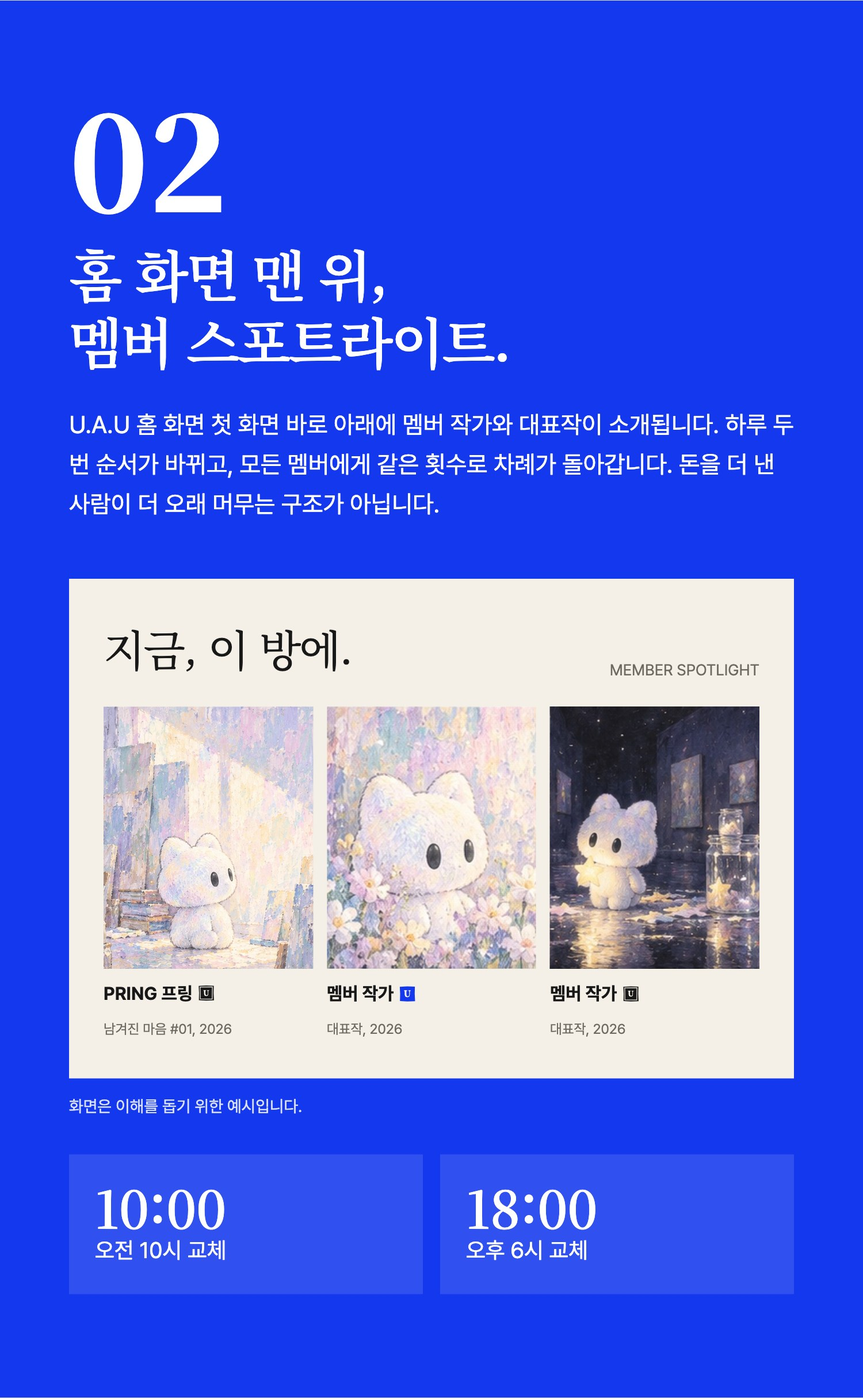
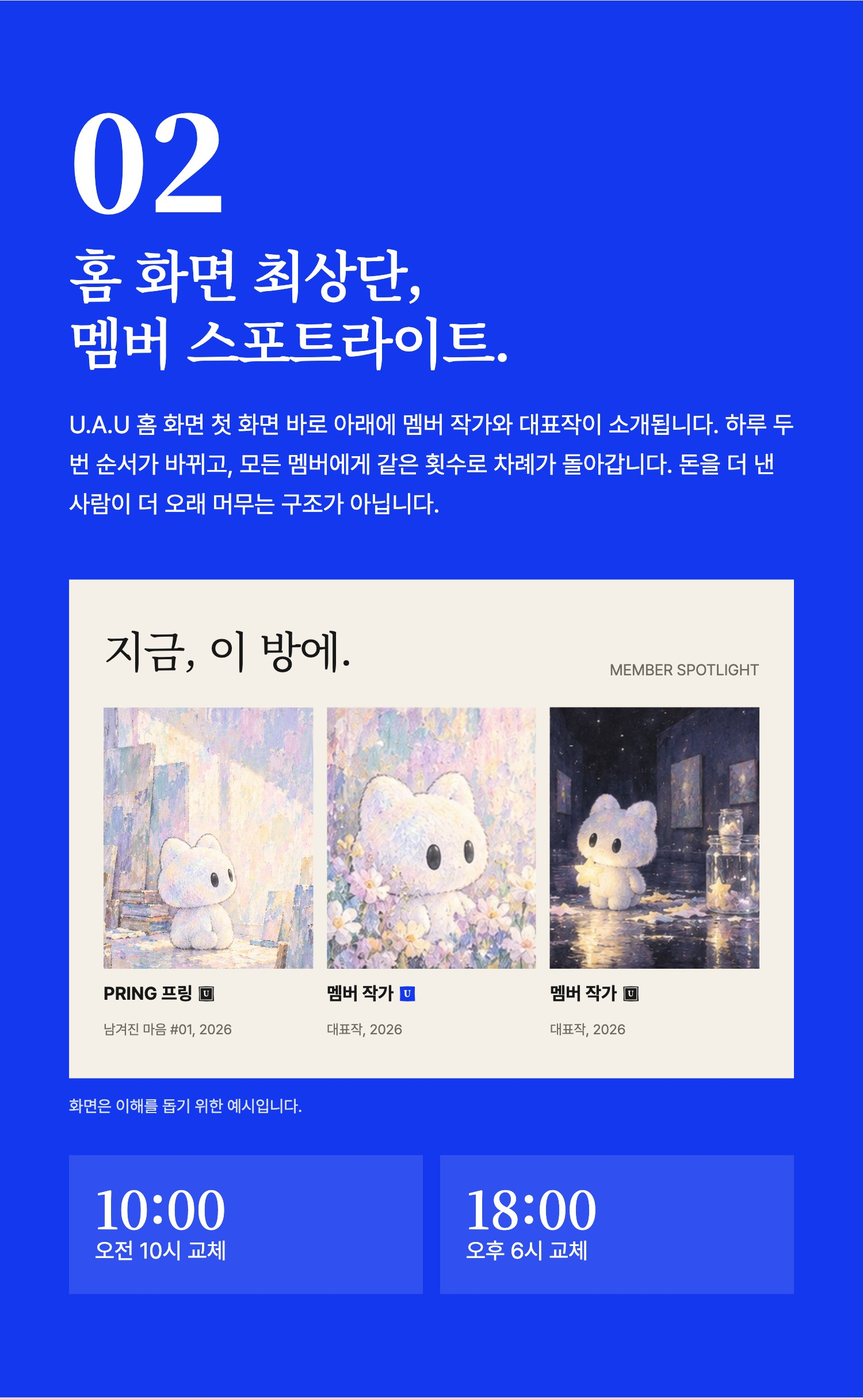
Call the membership mark a crest and promise activation within 12 hours
Rework the Imweb detail copy, fix its typos and line breaks, keep upcoming
tools for members only, and re-render the covers and detail images.

diff --git a/docs/operations/imweb/detail.html b/docs/operations/imweb/detail.html
@@ -171,33 +171,33 @@ const month = isFounding ? "2,900" : "4,900";
 
 const sections = [
   // 1 opening
-  `<section class="slice open"><img src="../../../public/assets/uau-hero.webp" alt=""><div class="brand">U.A.U · UNFRAME Artist Unit</div><div class="scrim"></div>${seal()}<div class="copy">
+  `<section class="slice open"><img src="../../../public/assets/uau-hero.webp" alt=""><div class="brand">U.A.U - UNFRAME Artist Unit</div><div class="scrim"></div>${seal()}<div class="copy">
     <span class="tag">${isFounding ? "선착순 100명 · 창립 멤버 1년권" : "U.A.U 멤버 1년권"}</span>
-    <h1>${isFounding ? "단 100명에게만,<br>먹색 인장." : "작가의 이름 옆에,<br>작은 인장 하나."}</h1>
-    <p>${isFounding ? "U.A.U가 시작하는 해를 함께할 작가 100명을 찾습니다." : "커피 한 잔 값으로, 당신의 작업이 더 자주 보이게."}</p></div></section>`,
+    <h1>${isFounding ? "단 100명에게만,<br>먹색 크레스트." : "작가의 이름 옆에,<br>작은 크레스트 하나."}</h1>
+    <p>${isFounding ? "U.A.U가 시작하는 해를 함께할 작가 100명을 찾습니다." : "커피 한 잔 값으로, 당신의 작업이 더 명확하고 자주 보이게."}</p></div></section>`,
   // 2 pains
-  `<section class="slice deep"><h2>좋은 작업은 많은데,<br><em>보일 자리</em>는 적습니다.</h2>
-    <p class="lead">작가가 자기 작업을 알리려면 생각보다 많은 비용이 듭니다.</p>
+  `<section class="slice deep"><h2>작업에 몰두하기도 벅찬데,<br><em>알리는 비용</em>은 무겁습니다.</h2>
+    <p class="lead">아티스트가 자신의 온전한 아카이브를 알리려면 생각보다 많은 비효율과 비용이 듭니다.</p>
     <div class="pains">
       <div class="pain"><strong>월 1~3만원</strong><p>해외 포트폴리오 서비스의 유료 플랜<small>Behance Pro, ArtStation Pro, Format 등 (2026년 기준, 연간 결제 시)</small></p></div>
-      <div class="pain"><strong>40%</strong><p>온라인 판매 플랫폼이 가져가는 작품 판매 수수료<small>Saatchi Art, Artfinder 등</small></p></div>
-      <div class="pain"><strong>?</strong><p>언제 보여줄지 알 수 없는 SNS 알고리즘<small>올린 날 묻히면 그걸로 끝</small></p></div>
+      <div class="pain"><strong>30~40%</strong><p>온라인 판매 플랫폼이 가져가는 높은 중개 수수료<small>Saatchi Art, Artfinder 등 독립 판매 채널</small></p></div>
+      <div class="pain"><strong>? ? ?</strong><p>언제 보여줄지 알 수 없는 SNS 알고리즘<small>올린 날 묻히면 그걸로 끝</small></p></div>
     </div></section>`,
   // 3 what is UAU
-  `<section class="slice"><h2>U.A.U는 작가의 기록과 연결을<br>위한 <em>작가 플랫폼</em>입니다.</h2>
-    <p class="lead">UNFRAME이 만든 U.A.U에서 작가는 자기 페이지를 갖고, 작품·CV·전시 기록을 쌓고, 문의를 받습니다. <b>여기까지는 모두 무료입니다.</b> 인증 작가라면 누구나 공정한 순서로 목록에 노출되고, 그 순서는 매일 오전 10시와 오후 6시에 다시 섞입니다.</p>
-    <p class="lead">멤버십은 그 위에 하나를 더합니다. <b>더 자주 보이는 것.</b></p></section>`,
+  `<section class="slice"><h2>U.A.U는 아티스트의 온전한 '기록과 연결'을 위한<br><em>지속 가능한 플랫폼</em>입니다.</h2>
+    <p class="lead">UNFRAME이 만든 U.A.U에서 아티스트는 자신만의 웹페이지를 갖고, 작품·CV·전시 기록을 아카이빙하며, 컬렉터 또는 기획자의 문의를 직접 받습니다. <b>이 모든 기본 기능은 인증 아티스트라면 평생 무료입니다.</b><br>누구나 공정한 순서로 목록에 노출되고, 그 순서는 매일 오전 10시와 오후 6시에 다시 섞입니다.</p>
+    <p class="lead">멤버십은 상업적인 입찰 광고가 아닙니다. <b>창작을 지키는 아티스트에게 더 명확한 시선의 기회를 더하는 신뢰의 연결입니다.</b></p></section>`,
   // 4 seal reveal
-  `<section class="slice dark reveal"><span class="tag">MEMBERSHIP SEAL</span><h2 style="margin-top:30px">이름 옆에 찍히는<br>U.A.U ${name} 인장</h2>${seal()}
-    <div class="anatomy"><div><b>U · A</b><p>윗줄은 Unframe Artist의 머리글자.</p></div><div><b>□ · U</b><p>아랫줄은 액자 틀과 Unit. 틀을 벗어난 작가들의 단위.</p></div><div><b>${colour}</b><p>${isFounding ? "먹색은 창립 멤버에게만. 테두리가 한 겹 더 있습니다." : "블루는 U.A.U 멤버의 색입니다."}</p></div></div></section>`,
+  `<section class="slice dark reveal"><span class="tag">MEMBERSHIP CREST</span><h2 style="margin-top:30px">이름 옆에 새겨지는<br>U.A.U ${name} 크레스트</h2>${seal()}
+    <div class="anatomy"><div><b>U · A</b><p>상단은 Unframe Artist의 머리글자. 기존 틀을 벗어난 동시대 아티스트</p></div><div><b>□ · U</b><p>하단은 액자 틀과 Unit. 틀을 확장하는 아티스트들의 독립적 연대 단위.</p></div><div><b>${colour}</b><p>${isFounding ? "먹색은 창립 멤버에게만. 테두리가 한 겹 더 있습니다." : "딥블루는 U.A.U 공식 멤버의 시그니처 컬러입니다."}</p></div></div></section>`,
   // 5 benefit 1
-  `<section class="slice soft"><div class="num">01</div><h2 style="margin-top:36px">작가 페이지와 목록,<br>이름 옆에 <em>인장</em>이 붙습니다.</h2>
-    <p class="lead">작가 페이지 제목에는 큰 인장이, 작가 목록과 '새로 연결된 작가'에는 작은 인장이 붙습니다. 컬렉터와 큐레이터는 이 작가가 U.A.U와 함께하는 멤버라는 걸 한눈에 압니다.</p>
+  `<section class="slice soft"><div class="num">01</div><h2 style="margin-top:36px">아티스트 페이지와 목록,<br>이름 옆에 <em>크레스트</em>가 붙습니다.</h2>
+    <p class="lead">아티스트 페이지 상단에는 볼드한 크레스트가, 아카이브 목록과 추천 탭에는 컴팩트 크레스트가 표시됩니다. 컬렉터와 큐레이터는 이 작가가 U.A.U와 긴밀히 연대하는 멤버임을 직관적으로 확인합니다.</p>
     <div class="mock"><div class="mock-bar"><span>U.A.U / artist</span><span>작품 · CV · 문의</span></div><div class="mock-head"><div><h3>PRING 프링${seal()}</h3><p>Mixed media · Seoul</p><p style="color:var(--ink);margin-top:26px">보이지 않는 마음을 조용히 주워 담는<br>작은 친구예요.</p></div><img class="art" src="${tpl}editorial.jpg" style="object-view-box: inset(671px 274px 992px 351px)" alt=""></div></div>
-    <div class="mock-list"><div><span>PRING 프링${seal(undefined, "letter")}</span><small class="muted">Mixed media · Seoul</small></div><div><span>다른 작가</span><small class="muted">Painting · Busan</small></div></div>
+    <div class="mock-list"><div><span>PRING 프링${seal(undefined, "letter")}</span><small class="muted">Mixed media · Seoul</small></div><div><span>다른 아티스트</span><small class="muted">Painting · Busan</small></div></div>
     <p class="caption">화면은 이해를 돕기 위한 예시입니다.</p></section>`,
   // 6 benefit 2
-  `<section class="slice blue"><div class="num" style="color:#fff">02</div><h2 style="margin-top:36px">홈 화면 맨 위,<br>멤버 스포트라이트.</h2>
+  `<section class="slice blue"><div class="num" style="color:#fff">02</div><h2 style="margin-top:36px">홈 화면 최상단,<br>멤버 스포트라이트.</h2>
     <p class="lead">U.A.U 홈 화면 첫 화면 바로 아래에 멤버 작가와 대표작이 소개됩니다. 하루 두 번 순서가 바뀌고, 모든 멤버에게 같은 횟수로 차례가 돌아갑니다. 돈을 더 낸 사람이 더 오래 머무는 구조가 아닙니다.</p>
     <div class="spot"><div class="spot-head"><h3>지금, 이 방에.</h3><small>MEMBER SPOTLIGHT</small></div><div class="spot-grid">
       <div><img class="art" src="${tpl}editorial.jpg" style="object-view-box: inset(56px 31px 1335px 263px)" alt=""><b>PRING 프링${seal(undefined, "letter")}</b><small>남겨진 마음 #01, 2026</small></div>
@@ -206,55 +206,55 @@ const sections = [
     </div></div><p class="caption" style="color:#d9e0ff">화면은 이해를 돕기 위한 예시입니다.</p>
     <div class="clock"><div><strong>10:00</strong>오전 10시 교체</div><div><strong>18:00</strong>오후 6시 교체</div></div></section>`,
   // 7 coming
-  `<section class="slice deep"><div class="num">03</div><h2 style="margin-top:36px">앞으로 열리는 도구도,<br><em>추가 비용 없이.</em></h2>
-    <p class="lead">지금 만들고 있는 기능입니다. 열리는 대로 멤버에게 바로 켜집니다. 아직 없는 기능을 있는 것처럼 팔지 않기 위해, 준비 중이라고 분명히 적습니다.</p>
+  `<section class="slice deep"><div class="num">03</div><h2 style="margin-top:36px">새롭게 열리는 도구도,<br><em>추가 비용 없이 우선 적용.</em></h2>
+    <p class="lead">현재 순차적으로 구축 중인 아티스트 전용 툴셋입니다. 배포되는 즉시 멤버에게 추가 과금 없이 활성화됩니다. 아직 서비스되지 않는 기능을 과장하지 않기 위해, 준비 중임을 투명하게 밝힙니다.</p>
     <div class="coming">
-      <div><div><b>내 페이지 통계</b><p>조회수 · 문의 · 저장 수를 한 화면에서</p></div><em>준비 중</em></div>
-      <div><div><b>포트폴리오 PDF</b><p>워터마크 없이 내보내기</p></div><em>준비 중</em></div>
-      <div><div><b>우선 알림</b><p>큐레이터 브리프 · 오픈콜을 먼저</p></div><em>준비 중</em></div>
+      <div><div><b>아카이브 애널리틱스</b><p>작업 조회수 · 문의 추이 · 큐레이터 저장 수를 한 화면에서</p></div><em>준비 중</em></div>
+      <div><div><b>포트폴리오 PDF 익스포트</b><p>워터마크 없이 인쇄/전달 가능한 규격 도록 내보내기</p></div><em>준비 중</em></div>
+      <div><div><b>오픈콜 & 기획 우선 알림</b><p>큐레이터 브리프 · 오픈콜 · 협력전시를 우선 전달</p></div><em>준비 중</em></div>
       ${isFounding ? `<div><div><b>연말 Recap 수록</b><p>창립 멤버로 한 해의 기록에</p></div><em>준비 중</em></div>` : ""}
     </div></section>`,
   // 8 price
-  `<section class="slice"><h2>한 달에 <em>${month}원.</em><br>커피 한 잔 값입니다.</h2>
+  `<section class="slice"><h2>한 달에 약 <em>${month}원.</em><br>커피 한 잔 값입니다.</h2>
     <p class="lead">1년권 ${price}원을 열두 달로 나누면 이렇습니다. 해외 포트폴리오 서비스의 유료 플랜과 비교해 보세요.</p>
     <div class="bars">
       <div class="bar"><span>해외 포트폴리오 서비스 (월, 대략)<b>약 14,000원~</b></span><i style="width:100%"></i></div>
-      <div class="bar is-us"><span>U.A.U 멤버 (월 환산)<b>4,900원</b></span><i style="width:35%"></i></div>
-      <div class="bar is-founding-bar"><span>U.A.U 창립 멤버 (월 환산)<b>2,900원</b></span><i style="width:21%"></i></div>
+      <div class="bar is-us"><span>U.A.U 멤버십 (월 환산)<b>약 4,900원</b></span><i style="width:35%"></i></div>
+      <div class="bar is-founding-bar"><span>U.A.U 창립 100인 멤버십 (월 환산)<b>약 2,900원</b></span><i style="width:21%"></i></div>
     </div><p class="caption">해외 서비스 가격은 Behance Pro 월 $9.99(연간 약정) 기준 환산이며, 환율과 플랜에 따라 달라집니다.</p>
     <div class="coffee"><span>1년 한 번 결제 · 자동 결제 없음</span><strong>₩${price}</strong>${isFounding ? "<span>정상가 59,000원 → 창립 멤버 35,000원</span>" : "<span>끊기지 않고 갱신하면 가입 가격 그대로</span>"}</div></section>`,
   // 9 founding only
   isFounding ? `<section class="slice dark"><span class="tag">FOUNDING 100</span><h2 style="margin-top:30px">창립 멤버는 100명에서<br>닫히고, 다시 열리지 않습니다.</h2>
     <div class="seats">${Array.from({ length: 100 }, () => "<i></i>").join("")}</div>
     <div class="found-list">
-      <div><b>01</b><p>먹색 창립 인장<small>테두리가 한 겹 더 있는, 창립 멤버만의 인장</small></p></div>
+      <div><b>01</b><p>먹색 창립 크레스트<small>테두리가 한 겹 더 있는, 창립 멤버만의 크레스트</small></p></div>
       <div><b>02</b><p>연 35,000원, 갱신하는 동안 그대로<small>나중에 멤버 가격이 올라도 끊기지 않으면 유지</small></p></div>
-      <div><b>03</b><p>멤버 혜택 전부<small>인장 · 홈 스포트라이트 · 앞으로 열릴 도구</small></p></div>
+      <div><b>03</b><p>멤버 혜택 전부<small>크레스트 · 홈 스포트라이트 · 앞으로 열릴 도구</small></p></div>
       <div><b>04</b><p>U.A.U의 첫해를 함께한 기록<small>연말 Recap 창립 멤버 수록 (준비 중)</small></p></div>
     </div></section>` : "",
   // 10 promises
   `<section class="slice deep"><h2>U.A.U가 지키는<br>세 가지 약속.</h2><div class="promise">
-    <div><b>자동 결제는 없습니다.</b><p>1년권입니다. 끝나면 인장이 저절로 꺼지고, 이어 갈지는 직접 정합니다.</p></div>
-    <div><b>심사는 돈으로 살 수 없습니다.</b><p>멤버든 아니든 모든 작가는 같은 기준으로 인증됩니다.</p></div>
-    <div><b>활동 보상은 팔지 않습니다.</b><p>오디오 도슨트, 무빙 커버 같은 성장 보상은 기록하는 모든 작가에게 열려 있습니다.</p></div>
+    <div><b>자동 결제는 없습니다.</b><p>1년 만료형 단건권입니다. 기한이 지나면 크레스트가 자연히 꺼지며, 연장 여부는 아티스트가 직접 선택합니다.</p></div>
+    <div><b>심사와 인증은 돈으로 살 수 없습니다.</b><p>멤버 가입 여부와 무관하게 모든 아티스트는 동일하고 엄격한 기준으로 공정하게 인증됩니다.</p></div>
+    <div><b>활동 보상은 팔지 않습니다.</b><p>오디오 도슨트, 무빙 커버 같은 성장 리워드는 지속적으로 기록하는 모든 아티스트에게 동등하게 열려 있습니다.</p></div>
   </div></section>`,
   // 11 steps
   `<section class="slice blue"><h2>이렇게 시작합니다.</h2><div class="steps">
-    <div class="step"><b>1</b><div><h4>U.A.U 인증 작가 되기</h4><p>u.a.u 사이트에서 작가 인증을 신청합니다. 인증은 무료입니다.</p></div></div>
-    <div class="step"><b>2</b><div><h4>1년권 결제</h4><p>주문서에 <b>U.A.U 가입 이메일</b>을 꼭 적어 주세요. 이 이메일로 작가 페이지를 찾습니다.</p></div></div>
-    <div class="step"><b>3</b><div><h4>인장이 켜집니다</h4><p>결제가 확인되면 인장과 스포트라이트가 켜지고, 1년 뒤 저절로 꺼집니다.</p></div></div>
-  </div><div class="notice">이 상품은 U.A.U 인증 작가 전용입니다. 실물 배송은 없습니다.</div></section>`,
+    <div class="step"><b>1</b><div><h4>U.A.U 인증 아티스트 되기</h4><p>u.a.u 사이트에 가입 및 포트폴리오를 등록하고 무료로 아티스트 인증을 신청합니다.</p></div></div>
+    <div class="step"><b>2</b><div><h4>1년권 멤버십 신청</h4><p>주문서에 U.A.U 가입 이메일을 입력해 주시면 아카이브 계정과 매칭됩니다.</p></div></div>
+    <div class="step"><b>3</b><div><h4>크레스트가 켜집니다</h4><p>결제 확인 후 12시간 이내에 아티스트 프로필에 크레스트가 새겨지고 메인 노출 풀에 순환 배치 됩니다.</p></div></div>
+  </div><div class="notice">본 멤버십은 U.A.U 인증 완료 아티스트 전용 권한 상품입니다. (실물 배송 없음)</div></section>`,
   // 12 faq
   `<section class="slice"><h2>자주 묻는 질문</h2><div class="faq">
-    <div><b>자동으로 다시 결제되나요?</b><p>아니요. 1년권이라 자동 결제가 없습니다. 1년이 지나면 인장이 저절로 꺼집니다.</p></div>
-    <div><b>인장은 언제 켜지나요?</b><p>UNFRAME 팀이 결제를 확인한 뒤 켭니다. 주문서의 U.A.U 가입 이메일로 작가 페이지를 찾습니다.</p></div>
+    <div><b>자동으로 다시 결제되나요?</b><p>아닙니다. 1년 기간권이므로 의사와 무관하게 자동 청구되지 않으며, 만료 전에 미리 연장 안내를 드립니다.</p></div>
+    <div><b>크레스트 표시는 언제 켜지나요?</b><p>UNFRAME 운영팀이 결제를 확인 후 12시간 이내에 반영합니다. 주문서에 U.A.U 가입 이메일로 작가 페이지를 연동합니다.</p></div>
     ${isFounding
-      ? `<div><b>작가 번호의 '창립 작가'와 같은 건가요?</b><p>다릅니다. 작가 번호의 창립 표시는 먼저 승인된 작가에게 무료로 붙는 기록이고, 먹 인장은 유료 창립 멤버에게만 붙습니다.</p></div><div><b>갱신을 놓치면 어떻게 되나요?</b><p>갱신하지 않고 1년이 지나면 창립 인장과 가격이 함께 끝납니다. 만료 전에 미리 알려 드립니다.</p></div>`
-      : `<div><b>창립 멤버와 무엇이 다른가요?</b><p>혜택은 같고, 인장 색(블루와 먹)과 가격이 다릅니다. 창립 멤버는 선착순 100명입니다.</p></div><div><b>가격이 오르면요?</b><p>끊기지 않고 갱신하는 멤버는 가입할 때의 가격 그대로입니다.</p></div>`}
-    <div><b>환불은 어떻게 하나요?</b><p>아래 UNFRAME 스토어 환불 안내를 따릅니다.</p></div>
+      ? `<div><b>작가 번호의 '창립 작가'와 같은 건가요?</b><p>다릅니다. 작가 번호의 창립 표시는 먼저 승인된 작가에게 무료로 붙는 기록이고, 먹색 크레스트은 유료 창립 멤버에게만 붙습니다.</p></div><div><b>갱신을 놓치면 어떻게 되나요?</b><p>갱신하지 않고 1년이 지나면 창립 크레스트와 가격이 함께 끝납니다. 만료 전에 미리 알려 드립니다.</p></div>`
+      : `<div><b>창립 멤버와 일반 멤버의 차이는 무엇인가요?</b><p>제공되는 핵심 기능은 동일하며, 크레스트의 컬러(블루 / 먹)와 가입 가격이 다릅니다. 창립 멤버는 선착순 100명 한정입니다.</p></div><div><b>이후 멤버십 가격이 인상되면 어떻게 되나요?</b><p>기간 만료 전 끊김 없이 갱신을 이어가시는 멤버는 최초 가입할 때의 금액 그대로 연장 권한을 유지하실 수 있습니다.</p></div>`}
+    <div><b>환불 정책은 어떻게 되나요?</b><p>크레스트 활성화 전 취소 시 전액 환불되며, 상세 기준은 하단 UNFRAME 스토어 이용약관 및 환불 규정을 준수합니다.</p></div>
   </div></section>`,
   // 13 close
-  `<section class="slice dark close">${seal()}<h2>이름 옆에, 인장을.</h2><p class="lead muted">U.A.U ${name} 1년권</p><div class="price">${isFounding ? "<s>59,000원</s>" : ""}₩${price}<small>한 달 약 ${month}원 · 자동 결제 없음</small></div></section>`,
+  `<section class="slice dark close">${seal()}<h2>이름 곁에, 크레스트를.</h2><p class="lead muted">U.A.U ${name} 1년권</p><div class="price">${isFounding ? "<s>59,000원</s>" : ""}₩${price}<small>한 달 약 ${month}원 · 자동 결제 없음</small></div></section>`,
 ];
 document.getElementById("page").innerHTML = sections.filter(Boolean).join("");
 </script>

diff --git a/app/membership/page.tsx b/app/membership/page.tsx
@@ -29,10 +29,10 @@ function Cell({ value, locale }: { value: BenefitRow["cells"][PlanId]; locale: L
 export default function MembershipPage() {
   const locale = getServerLocale();
   const faq = [
-    [tx(locale, "Will I be charged again automatically?", "자동으로 다시 결제되나요?"), tx(locale, "No. It is a one-year pass. When the year ends the seal switches off by itself, and you decide whether to buy another year.", "아니요. 1년권이라 자동 결제가 없습니다. 1년이 지나면 인장이 저절로 꺼지고, 다음 해를 이어 갈지는 직접 정하시면 됩니다.")],
-    [tx(locale, "When does my seal appear?", "인장은 언제 켜지나요?"), tx(locale, "After the UNFRAME team confirms the payment, usually within a working day. Write the email you use on U.A.U in the order form so we can find your page.", "UNFRAME 팀이 결제를 확인한 뒤, 보통 영업일 하루 안에 켜집니다. 페이지를 찾을 수 있도록 주문서에 U.A.U 가입 이메일을 꼭 적어 주세요.")],
-    [tx(locale, `What makes the founding ${foundingSeats} different?`, `창립 ${foundingSeats}인은 무엇이 다른가요?`), tx(locale, `They pay ₩35,000 a year instead of ₩59,000, wear the ink seal, and keep both for as long as they renew without a break. After ${foundingSeats} passes, founding closes for good.`, `연 59,000원 대신 35,000원을 내고, 먹 인장을 답니다. 끊기지 않고 갱신하는 동안 가격과 인장이 그대로 유지됩니다. ${foundingSeats}명이 차면 창립 멤버는 다시 열리지 않습니다.`)],
-    [tx(locale, "Is this the same as my founding artist number?", "작가 번호의 '창립 작가'와 같은 건가요?"), tx(locale, "No. The founding number is free and given to the first approved artists. The ink seal belongs only to paid founding members.", "다릅니다. 작가 번호의 창립 표시는 먼저 승인된 작가에게 무료로 붙는 기록입니다. 먹 인장은 유료 창립 멤버에게만 붙습니다.")],
+    [tx(locale, "Will I be charged again automatically?", "자동으로 다시 결제되나요?"), tx(locale, "No. It is a one-year pass. When the year ends the seal switches off by itself, and you decide whether to buy another year.", "아니요. 1년권이라 자동 결제가 없습니다. 1년이 지나면 크레스트가 저절로 꺼지고, 다음 해를 이어 갈지는 직접 정하시면 됩니다.")],
+    [tx(locale, "When does my seal appear?", "크레스트는 언제 켜지나요?"), tx(locale, "After the UNFRAME team confirms the payment, within 12 hours. Write the email you use on U.A.U in the order form so we can find your page.", "UNFRAME 팀이 결제를 확인한 뒤, 12시간 이내에 켜집니다. 페이지를 찾을 수 있도록 주문서에 U.A.U 가입 이메일을 꼭 적어 주세요.")],
+    [tx(locale, `What makes the founding ${foundingSeats} different?`, `창립 ${foundingSeats}인은 무엇이 다른가요?`), tx(locale, `They pay ₩35,000 a year instead of ₩59,000, wear the ink seal, and keep both for as long as they renew without a break. After ${foundingSeats} passes, founding closes for good.`, `연 59,000원 대신 35,000원을 내고, 먹색 크레스트을 답니다. 끊기지 않고 갱신하는 동안 가격과 크레스트가 그대로 유지됩니다. ${foundingSeats}명이 차면 창립 멤버는 다시 열리지 않습니다.`)],
+    [tx(locale, "Is this the same as my founding artist number?", "작가 번호의 '창립 작가'와 같은 건가요?"), tx(locale, "No. The founding number is free and given to the first approved artists. The ink seal belongs only to paid founding members.", "다릅니다. 작가 번호의 창립 표시는 먼저 승인된 작가에게 무료로 붙는 기록입니다. 먹색 크레스트은 유료 창립 멤버에게만 붙습니다.")],
     [tx(locale, "Why is it this cheap?", "왜 이렇게 저렴한가요?"), tx(locale, "U.A.U has just begun, so we only charge for what is already built. When statistics and the PDF export open, the price for new members goes up. Members who renew without a break keep the price they joined at.", "U.A.U는 이제 막 시작했고, 지금 드릴 수 있는 만큼만 받습니다. 통계와 PDF 내보내기가 열리면 새로 가입하는 분의 가격은 오릅니다. 끊기지 않고 갱신하는 멤버는 가입할 때의 가격 그대로입니다.")],
     [tx(locale, "What about refunds?", "환불은 어떻게 하나요?"), tx(locale, "Refunds follow the UNFRAME shop policy shown on the order page.", "환불은 결제 페이지에 안내된 UNFRAME 스토어 정책을 따릅니다.")],
   ] as const;
@@ -40,7 +40,7 @@ export default function MembershipPage() {
   return <main><div className="page-wrap membership-page">
     <section className="membership-hero">
       <div className="membership-hero-copy">
-        <h1>{tx(locale, <>A seal by your name,<br />for a cup of coffee.</>, <>커피 한 잔 값으로,<br />이름 옆에 인장을.</>)}</h1>
+        <h1>{tx(locale, <>A seal by your name,<br />for a cup of coffee.</>, <>커피 한 잔 값으로,<br />이름 옆에 크레스트를.</>)}</h1>
         <p>{tx(locale, `U.A.U membership is a one-year pass with no auto-renewal: ₩59,000 a year, or ₩35,000 for the first ${foundingSeats} founding members.`, `U.A.U 멤버십은 자동 결제 없는 1년권입니다. 멤버는 연 59,000원, 창립 멤버 ${foundingSeats}명은 연 35,000원입니다.`)}</p>
         <div className="membership-hero-actions"><BuyAction locale={locale} /><a className="underlined-link" href="#compare">{tx(locale, "Compare plans", "구성 비교")}</a></div>
       </div>
@@ -71,7 +71,7 @@ export default function MembershipPage() {
     <section className="membership-split" aria-labelledby="split-title">
       <h2 id="split-title">{tx(locale, "What money buys, and what it does not", "돈으로 사는 것과 살 수 없는 것")}</h2>
       <div className="membership-split-cols">
-        <div><h3>{tx(locale, "Membership buys", "멤버십으로 사는 것")}</h3><p>{tx(locale, "Exposure and tools: the seal, the spotlight turn, statistics and export.", "노출과 도구입니다. 인장, 스포트라이트 차례, 통계와 내보내기.")}</p></div>
+        <div><h3>{tx(locale, "Membership buys", "멤버십으로 사는 것")}</h3><p>{tx(locale, "Exposure and tools: the seal, the spotlight turn, statistics and export.", "노출과 도구입니다. 크레스트, 스포트라이트 차례, 통계와 내보내기.")}</p></div>
         <div><h3>{tx(locale, "Activity earns", "활동으로만 얻는 것")}</h3><p>{tx(locale, "Growth rewards such as the audio docent and moving cover stay open to every artist who records their practice. They are never for sale.", "오디오 도슨트, 무빙 커버 같은 성장 보상은 활동을 기록하는 모든 작가에게 열려 있습니다. 돈으로 팔지 않습니다.")}</p></div>
         <div><h3>{tx(locale, "Nobody buys", "누구도 살 수 없는 것")}</h3><p>{tx(locale, "Review and approval. Every artist is verified the same way, member or not.", "심사와 승인입니다. 멤버든 아니든 모든 작가는 같은 기준으로 인증됩니다.")}</p></div>
       </div>
@@ -82,7 +82,7 @@ export default function MembershipPage() {
       <ol>
         <li><strong>{tx(locale, "Get verified", "인증 받기")}</strong>{tx(locale, "Apply as a U.A.U artist first. Verification is free.", "먼저 U.A.U 인증 작가로 승인을 받으세요. 인증은 무료입니다.")}</li>
         <li><strong>{tx(locale, "Buy the pass", "1년권 결제")}</strong>{tx(locale, "Buy the one-year pass in the UNFRAME shop and write your U.A.U email in the order form.", "UNFRAME 스토어에서 1년권을 결제하고, 주문서에 U.A.U 가입 이메일을 적어 주세요.")}</li>
-        <li><strong>{tx(locale, "Seal on", "인장 켜짐")}</strong>{tx(locale, "The team confirms the payment and turns on your seal and spotlight. A year later they switch off by themselves.", "운영팀이 결제를 확인하고 인장과 스포트라이트를 켭니다. 1년 뒤에는 저절로 꺼집니다.")}</li>
+        <li><strong>{tx(locale, "Seal on", "크레스트 켜짐")}</strong>{tx(locale, "The team confirms the payment and turns on your seal and spotlight. A year later they switch off by themselves.", "운영팀이 결제를 확인하고 크레스트와 스포트라이트를 켭니다. 1년 뒤에는 저절로 꺼집니다.")}</li>
       </ol>
       <div className="membership-actions"><BuyAction locale={locale} /><Link className="underlined-link" href="/join">{tx(locale, "Not verified yet? Join U.A.U", "아직 인증 전이라면 · U.A.U 참여 안내")}</Link></div>
     </section>

diff --git a/app/membership-plan.ts b/app/membership-plan.ts
@@ -17,8 +17,8 @@ export const foundingSeats = 100;
 
 export const membershipPlans: Plan[] = [
   { id: "verified", label: c("Verified artist", "인증 작가"), yearly: 0, note: c("Free, for every approved artist", "승인된 작가 모두, 무료"), who: c("Your page, records and inquiries.", "작가 페이지와 기록, 문의까지.") },
-  { id: "member", label: c("Member", "멤버"), yearly: 59000, note: c("About ₩4,900 a month, a cup of coffee", "한 달 약 4,900원, 커피 한 잔"), who: c("A seal beside your name and a turn on the home page.", "이름 옆 인장과 홈 화면의 차례.") },
-  { id: "founding", label: c("Founding member", "창립 멤버"), yearly: 35000, note: c(`First ${foundingSeats} only · about ₩2,900 a month`, `선착순 ${foundingSeats}명 · 한 달 약 2,900원`), who: c("Every member benefit, the ink seal, and this price for as long as you renew.", "멤버 혜택 전부와 먹 인장, 그리고 이어서 갱신하는 동안 이 가격.") },
+  { id: "member", label: c("Member", "멤버"), yearly: 59000, note: c("About ₩4,900 a month, a cup of coffee", "한 달 약 4,900원, 커피 한 잔"), who: c("A seal beside your name and a turn on the home page.", "이름 옆 크레스트와 홈 화면의 차례.") },
+  { id: "founding", label: c("Founding member", "창립 멤버"), yearly: 35000, note: c(`First ${foundingSeats} only · about ₩2,900 a month`, `선착순 ${foundingSeats}명 · 한 달 약 2,900원`), who: c("Every member benefit, the ink seal, and this price for as long as you renew.", "멤버 혜택 전부와 먹색 크레스트, 그리고 이어서 갱신하는 동안 이 가격.") },
 ];
 
 const all = { verified: true, member: true, founding: true };
@@ -31,7 +31,7 @@ export const benefitRows: BenefitRow[] = [
   { ...c("Inquiries with email alerts", "문의 받기와 이메일 알림"), ready: true, cells: all },
   { ...c("Fair listing order, reshuffled at 10:00 and 18:00", "공정 순서 목록 노출 (10시·18시 교체)"), ready: true, cells: all },
   { ...c("Growth rewards earned by activity", "활동으로 여는 성장 보상"), ready: true, cells: all },
-  { ...c("Seal beside your name", "이름 옆 인장"), ready: true, cells: { verified: false, member: c("Blue", "블루"), founding: c("Ink", "먹") } },
+  { ...c("Seal beside your name", "이름 옆 크레스트"), ready: true, cells: { verified: false, member: c("Blue", "블루"), founding: c("Ink", "먹") } },
   { ...c("Home Member Spotlight", "홈 멤버 스포트라이트"), ready: true, cells: paid },
   { ...c("Views, inquiries and saves statistics", "조회수·문의·저장 통계"), ready: false, cells: paid },
   { ...c("Portfolio PDF without watermark", "워터마크 없는 포트폴리오 PDF"), ready: false, cells: paid },

diff --git a/app/membership/seal-preview.tsx b/app/membership/seal-preview.tsx
@@ -22,7 +22,7 @@ export function SealPreview({ locale }: { locale: Locale }) {
     </div>
     <div className="seal-preview-controls">
       <label><span>{tx(locale, "Try your name", "내 이름으로 보기")}</span><input value={name} maxLength={24} onChange={(event) => setName(event.target.value)} placeholder={tx(locale, "Your name", "작가 이름")} /></label>
-      <div className="seal-preview-tiers" role="radiogroup" aria-label={tx(locale, "Seal", "인장")}>
+      <div className="seal-preview-tiers" role="radiogroup" aria-label={tx(locale, "Seal", "크레스트")}>
         {(Object.keys(sealTiers) as MembershipTier[]).map((id) => <button key={id} type="button" role="radio" aria-checked={tier === id} className={tier === id ? "is-on" : undefined} onClick={() => setTier(id)}>{tx(locale, id === "member" ? "Member · blue" : "Founding · ink", id === "member" ? "멤버 · 블루" : "창립 멤버 · 먹")}</button>)}
       </div>
     </div>

diff --git a/docs/operations/imweb/cover.html b/docs/operations/imweb/cover.html
@@ -31,7 +31,7 @@
 <script>
   // Same seal geometry as app/components/uau-seal.tsx (full variant).
   const tiers = {
-    member: { color: "#1438ee", title: "멤버 1년권", sub: "이름 옆 블루 인장 · 자동 결제 없음", price: "₩59,000", per: "한 달 약 4,900원" },
+    member: { color: "#1438ee", title: "멤버 1년권", sub: "이름 옆 블루 크레스트 · 자동 결제 없음", price: "₩59,000", per: "한 달 약 4,900원" },
     founding: { color: "#171817", title: "창립 멤버 1년권", sub: "선착순 100명 · 갱신하는 동안 이 가격", price: "₩35,000", per: "한 달 약 2,900원" },
   };
   const id = new URLSearchParams(location.search).get("tier") === "founding" ? "founding" : "member";
